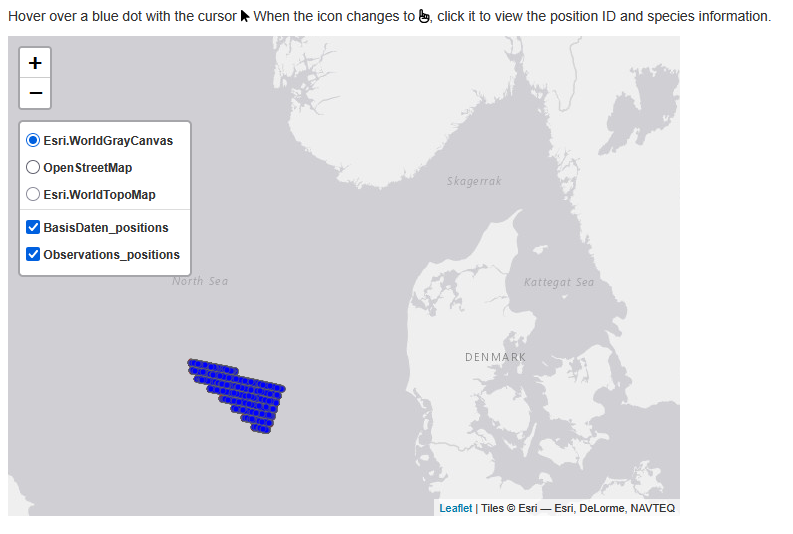
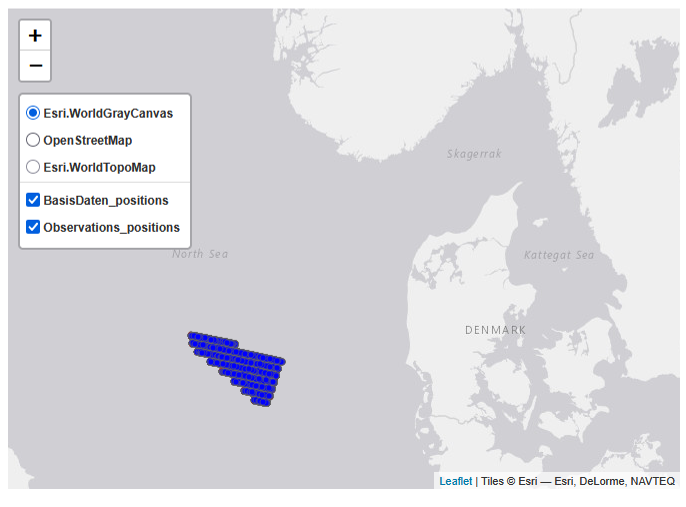
Update README

diff --git a/README.md b/README.md
@@ -54,8 +54,6 @@ would more easily localize the folders where the data is and the Rmds.
 
 Open the Markdown 00QualityCheck.Rmd
 
-<img src="Images/MainScript.png" width="100%" />
-
 ## Conditions
 
 You should have an excel file that have the following sheets, with these
@@ -133,12 +131,11 @@ The following column names and some relevant fields are checked:
 - `LAT_PIC_CENTER`: This field is mandatory.<br>
 - `LON_PIC_CENTER`: This field is mandatory.<br>
 - `PLANE_FLIGHT_HEIGHT`: This field is mandatory. <br>
-- `PIC_AREA_ANALYSED`: This field is mandatory. Some variation is
-  expected.<br>
+- `PIC_AREA_ANALYSED`: This field is mandatory.<br>
 - `GLARE`: This field is mandatory. <br>
 - `SEASTATE`: This field is mandatory. <br>
 - `TURBIDITY`: This field is mandatory. <br>
-- `ICE`: Usually 0 = No Ice. This field is mandatory.<br>
+- `ICE`: This field is mandatory. Use 0 is no Ice.<br>
 - `CLARITY`: This field is mandatory. <br>
 - `PIC_QUALITY`: This field is mandatory. <br>
 - `PIC_FILENAME`: Can be left blank. <br>
@@ -167,7 +164,7 @@ The following column names and some relevant fields are checked:
   ABIOTIC_STRUCTURES or ABIOTIC_OBSERVATIONS.<br>
 - `DETECTION_STEP`: Leave blank if the position was not audited.<br>
 - `BEHAVIOUR`: Leave blank if no BEHAVIOUR was observed.<br>
-- `ACTIVITY`: This field is mandatory. NAs are only allowed for abiotic
+- `ACTIVITY`: This field is mandatory. 0s are only allowed for abiotic
   structures. <br>
 - `GROUP`: Leave blank if no GROUP was observed.<br>
 - `FAMILY_GROUP`: Leave blank if no FAMILY GROUP was observed.<br>
@@ -237,7 +234,7 @@ sightings must at least reach 20% of all sightings.<br>
 extract the month and classify the season.<br> - `LAT_PIC_CENTER`:
 Column name must fit to automatically create the survey effort
 maps.<br> - `LON_PIC_CENTER`: Column name must fit to automatically
-create the survey effort maps.\<<br> - `GLARE`: Some variation is
+create the survey effort maps.<br> - `GLARE`: Some variation is
 expected.<br> - `SEASTATE`: Some variation is expected.<br> -
 `TURBIDITY`: Some variation is expected.<br> - `CLARITY`: Some variation
 is expected.<br> - `PIC_QUALITY`: Some variation is expected. Percentage
@@ -260,7 +257,7 @@ number of individuals from one species are consistently misidentified.
 <br> - `DETECTION_STEP`: At least 20% of the screenings should be
 reviewed. The initial screener and the auditor are expected to achieve a
 minimum of 90% agreement in detection. <br> - `ACTIVITY`: Check that its
-filled for all observation. NAs are only allowed for abiotic structures.
+filled for all observation. 0s are only allowed for abiotic structures.
 In general a balanced proportion between flying and swimming is
 expected.<br> - `AGE_CLASS` and `AGE_YEAR`: Check that the information
 is plausible.<br> - `LAT_OBJECT` and `LON_OBJECT`: Used to plot the
@@ -307,4 +304,45 @@ sightings per group. Instructions are included.
 
 ## Conditions
 
-Check position accuracy and plausibility of observations.
+Position accuracy and plausibility of observations should be plausible.
+
+## Output
+
+The first map shows the survey and observation positions
+
+<img src="Images/Maps_1check.png" width="100%" />
+
+Hover over a blue dot with the cursor. When the icon changes, click it
+to view the position ID and species information.<br>
+
+<img src="Images/Maps_2check.png" width="100%" />
+
+Enables the selection of specific layers corresponding to morphological
+groupings and information of other features.
+
+<img src="Images/Maps_3check.png" width="100%" />
+
+Enables the selection of specific layers corresponding to morphological
+groupings
+
+<img src="Images/Maps_4check.png" width="100%" />
+
+Hover over a blue dot with the cursor. When the icon changes, click it
+to view the position ID and species information.<br>
+
+<img src="Images/Maps_5check.png" width="100%" />
+
+# Citation
+
+Please consider citing this repository.
+
+Lerma, M. (2025). QualityCheck. GitHub.
+<https://github.com/MiriamLL/QualityCheck>
+
+Additional references:
+
+- Kotzerka, J., Markones, N., Dierschke, V., & Auniņš, A. (2021).
+  Guidelines for monitoring seabirds at sea. In Helsinki Commission.
+  <https://helcom.fi/wp-content/uploads/2021/11/HELCOM-Monitoring-guidelines-for-seabirds-at-sea-monitoring.pdf>
+
+- ESAS data model. <https://esas-docs.ices.dk/>
